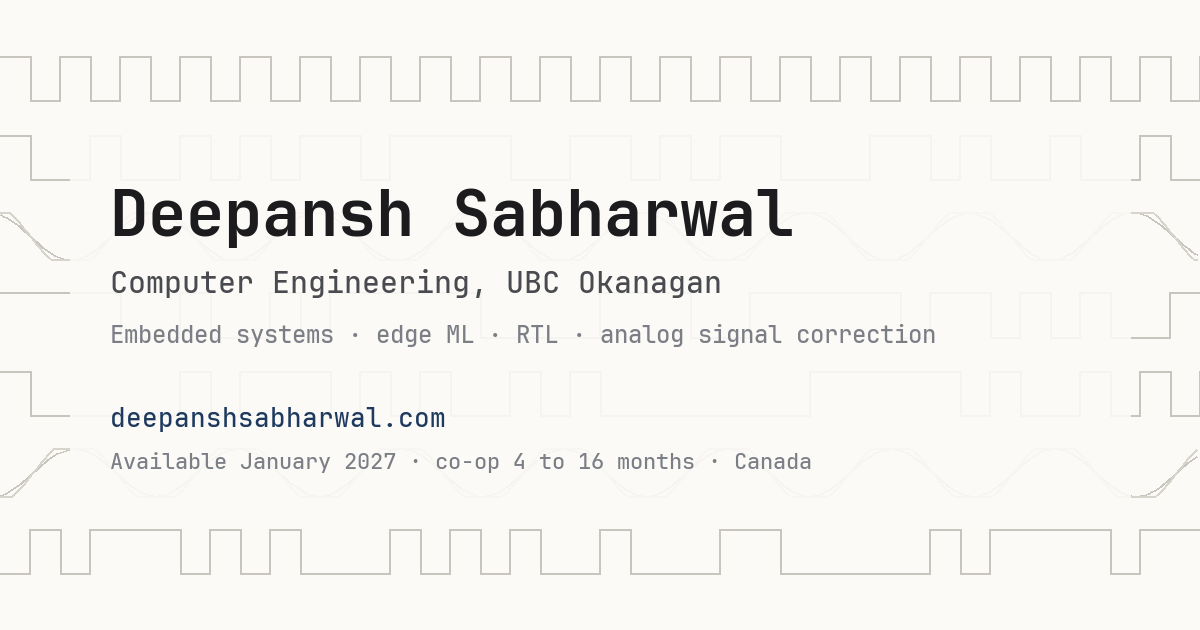
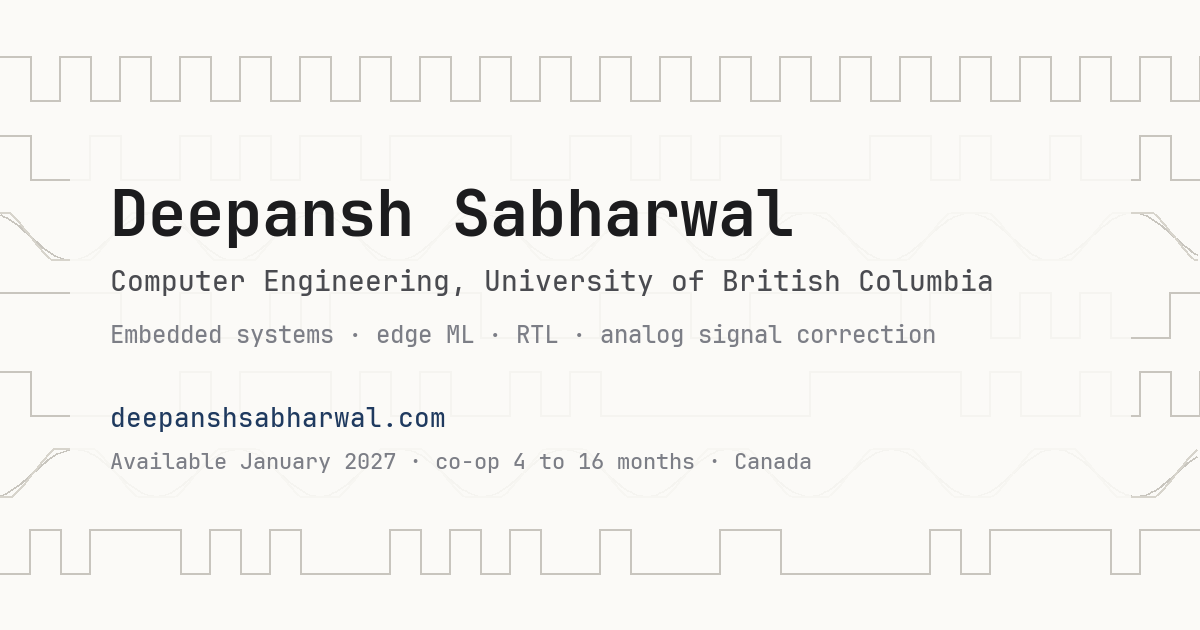
Drop Okanagan from institution name

Changed region(s): [[0.0925, 0.4222, 0.8325, 0.4825]]

diff --git a/index.html b/index.html
@@ -6,9 +6,9 @@
 <meta name="theme-color" content="#FBFAF7" media="(prefers-color-scheme: light)">
 <meta name="theme-color" content="#151618" media="(prefers-color-scheme: dark)">
 <title>Deepansh Sabharwal</title>
-<meta name="description" content="Deepansh Sabharwal, Computer Engineering at UBC Okanagan. Embedded systems, edge ML, RTL, analog signal correction. Co-op terms from January 2027.">
+<meta name="description" content="Deepansh Sabharwal, Computer Engineering at UBC. Embedded systems, edge ML, RTL, analog signal correction. Co-op terms from January 2027.">
 <meta property="og:title" content="Deepansh Sabharwal">
-<meta property="og:description" content="Computer Engineering, UBC Okanagan. Embedded systems, edge ML, RTL, analog signal correction.">
+<meta property="og:description" content="Computer Engineering, UBC. Embedded systems, edge ML, RTL, analog signal correction.">
 <meta property="og:url" content="https://deepanshsabharwal.com">
 <meta property="og:type" content="profile">
 <meta property="og:image" content="https://deepanshsabharwal.com/og.png">
@@ -23,7 +23,7 @@
 <link href="https://fonts.googleapis.com/css2?family=Inter:wght@400;500;600&family=JetBrains+Mono:wght@400;500&display=swap" rel="stylesheet">
 <script>try{var t=localStorage.getItem("theme");if(t)document.documentElement.setAttribute("data-theme",t)}catch(e){}</script>
 <script type="application/ld+json">
-{"@context":"https://schema.org","@type":"Person","name":"Deepansh Sabharwal","url":"https://deepanshsabharwal.com","email":"deepanshsabh.60@gmail.com","telephone":"+1-647-618-5973","jobTitle":"Computer Engineering student","affiliation":{"@type":"CollegeOrUniversity","name":"University of British Columbia, Okanagan"},"sameAs":["https://github.com/NightCrawler9924","https://www.linkedin.com/in/deepanshsabharwal/"],"address":{"@type":"PostalAddress","addressLocality":"Kelowna","addressRegion":"BC","addressCountry":"CA"}}
+{"@context":"https://schema.org","@type":"Person","name":"Deepansh Sabharwal","url":"https://deepanshsabharwal.com","email":"deepanshsabh.60@gmail.com","telephone":"+1-647-618-5973","jobTitle":"Computer Engineering student","affiliation":{"@type":"CollegeOrUniversity","name":"University of British Columbia"},"sameAs":["https://github.com/NightCrawler9924","https://www.linkedin.com/in/deepanshsabharwal/"],"address":{"@type":"PostalAddress","addressLocality":"Kelowna","addressRegion":"BC","addressCountry":"CA"}}
 </script>
 <style>
 :root{
@@ -231,7 +231,7 @@ footer{font-family:var(--mono);font-size:12px;color:var(--fg-3);padding:0 0 48px
 <aside>
   <div>
     <h1>Deepansh Sabharwal</h1>
-    <p class="role">Computer Engineering, UBC Okanagan</p>
+    <p class="role">Computer Engineering, UBC</p>
     <p class="lede">Embedded systems, edge ML, RTL, and analog signal correction. I build downward and measure everything.</p>
     <p class="status">Available Jan 2027 &middot; 4 to 16 months &middot; Canada</p>
     <nav class="side-nav" aria-label="Sections">
@@ -453,7 +453,7 @@ footer{font-family:var(--mono);font-size:12px;color:var(--fg-3);padding:0 0 48px
     <div class="k">Machine learning</div><div class="v">TensorFlow, YOLOv8, OpenCV, INT8 quantization, Hailo Dataflow Compiler, model evaluation, LLM API integration</div>
     <div class="k">Web, data</div><div class="v">React, Next.js, Node.js, Flask, REST APIs, PostgreSQL, Redis, schema design and migrations</div>
     <div class="k">Practice</div><div class="v">Git, GitHub Actions CI/CD, automated testing with simulation backends, security review, root cause analysis, technical documentation, Claude Code and Copilot as daily coding agents</div>
-    <div class="k">Education</div><div class="v">B.A.Sc. Computer Engineering, UBC Okanagan, expected May 2029. Fall 2026: Microcomputer Engineering, Microelectronics I, Linear Circuit Theory, Industrial Automation. Data Structures and Algorithms in Java. OpenCV University certificate, 2026.</div>
+    <div class="k">Education</div><div class="v">B.A.Sc. Computer Engineering, UBC, expected May 2029. Fall 2026: Microcomputer Engineering, Microelectronics I, Linear Circuit Theory, Industrial Automation. Data Structures and Algorithms in Java. OpenCV University certificate, 2026.</div>
   </div>
 </section>
 
